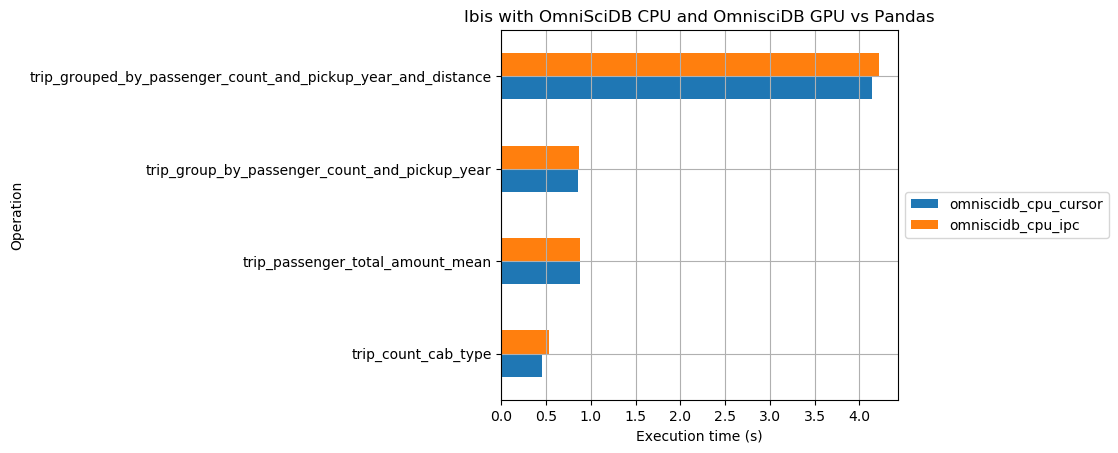
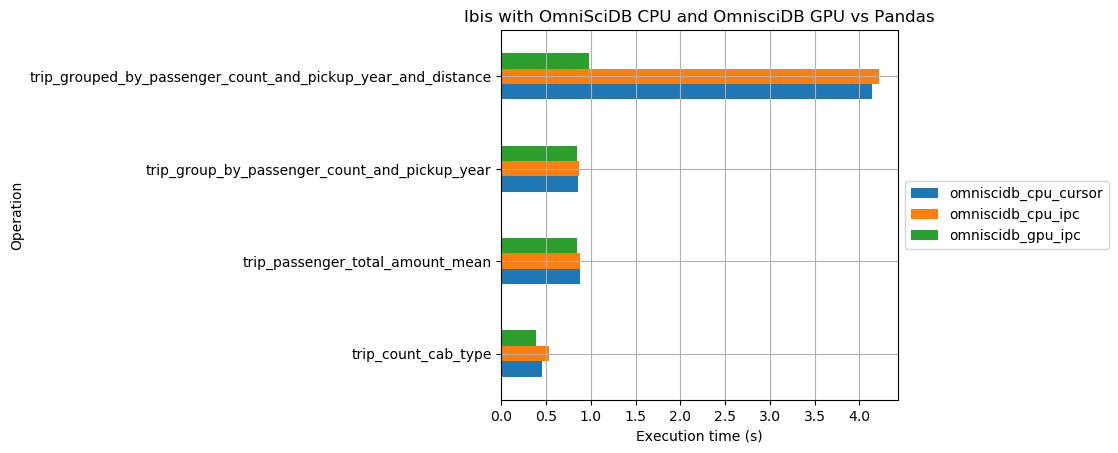
Add omniscidb gpu results

diff --git a/ibis_benchmark/nyc_taxi/main.py b/ibis_benchmark/nyc_taxi/main.py
@@ -1,16 +1,61 @@
+import argparse
 import os
 
 from ibis_benchmark.chart import gen_chart
 from ibis_benchmark.nyc_taxi import config
 from ibis_benchmark.utils import register_log
 
-# start a new benchmark log
-register_log(config.log_path, new_log=True)
 
-os.system('python run.py --omniscidb --cpu --cursor')
-os.system('python run.py --omniscidb --cpu --ipc')
-# os.system('python run.py --omniscidb --gpu --ipc')
-# os.system('python run.py --pandas')
+def main():
+    parser = argparse.ArgumentParser()
 
-# generate a comparison chart
-gen_chart('nyc-taxi')
+    group_backend = parser.add_mutually_exclusive_group(required=True)
+
+    group_backend.add_argument(
+        '--omniscidb-cpu',
+        dest='is_omniscidb_cpu',
+        action='store_true',
+        help='Set OmniSciDB CPU as the default backend.',
+    )
+
+    group_backend.add_argument(
+        '--omniscidb-cuda',
+        dest='is_omniscidb_cuda',
+        action='store_true',
+        help='Set OmniSciDB CUDA as the default backend.',
+    )
+
+    group_backend.add_argument(
+        '--pandas',
+        dest='is_pandas',
+        action='store_true',
+        help='Set pandas as the default backend.',
+    )
+
+    group_backend.add_argument(
+        '--reset-results',
+        dest='reset_results',
+        action='store_true',
+        help='Reset previous result.',
+    )
+
+    ns = parser.parse_args()
+
+    if ns.reset_results:
+        # start a new benchmark log
+        register_log(config.log_path, new_log=True)
+        return
+    elif ns.is_omniscidb_cpu:
+        os.system('python run.py --omniscidb --cpu --cursor')
+        os.system('python run.py --omniscidb --cpu --ipc')
+    elif ns.is_omniscidb_cuda:
+        os.system('python run.py --omniscidb --gpu --ipc')
+    elif ns.is_pandas:
+        os.system('python run.py --pandas')
+
+    # generate a comparison chart
+    gen_chart('nyc-taxi')
+
+
+if __name__ == '__main__':
+    main()

diff --git a/ibis_benchmark/nyc_taxi/run.py b/ibis_benchmark/nyc_taxi/run.py
@@ -99,8 +99,6 @@ def main():
             def run_benchmark():
                 t = table(table_name)
                 expr = expr_fn(t)
-                print(op_id)
-                print(expr.compile())
                 result = expr.execute()
                 assert expr is not None
                 assert result is not None

diff --git a/README.md b/README.md
@@ -34,21 +34,18 @@ cd scripts && ./start_omniscidb_cpu.sh
 For installing and running OmniSciDB-GPU, in another terminal, run:
 
 ```sh
-# create a conda environment and install omniscidb-gpu
-conda create -n omniscidb-gpu -c quansight omniscidb-gpu
-# activate omniscidb-gpu conda environemtn
-source activate omniscidb-gpu
-# rename initdb to pg_initdb
-cp $CONDA_PREFIX/bin/initdb pg_initdb
-# rename initdb to pg_initdb
-cp $CONDA_PREFIX/bin/omnisci_initdb initdb
-# deactivate the environment
-source deactivate
+# create a conda environment and install omniscidb-cuda
+conda create -n omniscidb-cuda -c quansight omniscidb-cuda
+# export env variables
+export OMNISCIDB_CPU_DATA_DIR=/work/$(whoami)/omniscidb-cpu-data
 # start omniscidb-gpu
-cd scripts && ./start_omniscidb_gpu.sh
+cd scripts && ./start_omniscidb_cuda.sh
 ```
 
-
+It is not possible to use both OmniSciDB CPU and CUDA at the same time 
+using the same data directory. So for this reason, the benchmark should
+be run separated for each server.
+ 
 ### Ibis-benchmark
 
 To prepare the conda environment, run:
